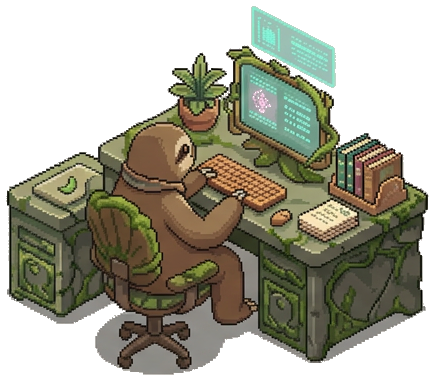
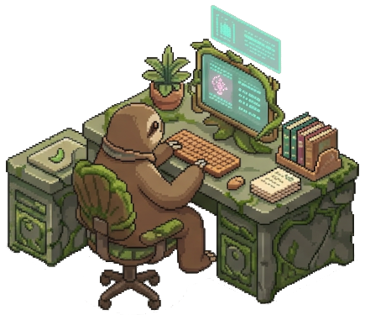
chore: sprite fixes

diff --git a/rendering/world-scene-asset-renderer.js b/rendering/world-scene-asset-renderer.js
@@ -663,40 +663,57 @@ export function renderConnectionLayer(ctx, components, entityPositions) {
 // ---------------------------------------------------------------------------
 
 /**
+ * Fixed desk positions calibrated to scene_background_01.jpg (canvas: 1060 × 520).
+ *
+ * One slot per confirmed, browser-verified sprite filename.
+ * Agents are assigned by index — first agent → slot 0, etc.
+ * Fewer agents than slots: only the filled slots are drawn.
+ * More agents than slots: remainder are silently skipped.
+ *
+ * sprite — explicit filename; looked up directly in loadedAssets, no inference.
+ * Adjust x/y here to re-align with the background image without touching any other code.
+ */
+const SLOTH_SLOTS = Object.freeze([
+  Object.freeze({ x: 350, y: 260, sprite: 'sloth_worker_desk_facing_right_front_01.png' }),
+  Object.freeze({ x: 700, y: 255, sprite: 'sloth_worker_desk_facing_left_front_01.png'  }),
+  Object.freeze({ x: 790, y: 310, sprite: 'sloth_worker_desk_facing_right_back_01.png'  }),
+  Object.freeze({ x: 570, y: 400, sprite: 'sloth_worker_desk_facing_left_back_01.png'   }),
+]);
+
+/**
  * Draw the sloth-at-desk sprite for each agent-sprite component.
  *
- * Uses ASSET_MAPPING.agents.base: sloth_worker_desk_facing_right_back_01.png (AGENT_W × AGENT_H).
- * The sprite is drawn centred on the resolved canvas position.
+ * Agents are assigned to SLOTH_SLOTS by index (first agent → slot 0).
+ * Position and sprite come entirely from the slot — entityPositions is not
+ * consulted here. No filename inference: slot.sprite is the literal key into
+ * loadedAssets.
+ *
  * Geometry circles from agent-entity-renderer (Layer 5 geometry pass) are
- * suppressed when the sprite is confirmed loaded — the circle acts as fallback
- * while assets are still loading.
+ * covered by the 62×54 sprite and act as a fallback while assets load.
  *
  * @param {CanvasRenderingContext2D} ctx
  * @param {Array<object>} components
- * @param {Map<string, {x:number, y:number}>} entityPositions
+ * @param {Map<string, {x:number, y:number}>} entityPositions  (unused — slots provide positions)
  */
 export function renderEntityLayer(ctx, components, entityPositions) {
-  const file = ASSET_MAPPING.agents.base;
-  let debugLogged = false;
+  void entityPositions; // Positions come from SLOTH_SLOTS; entity position map is not used here.
+  let agentIndex = 0;
+
   for (const c of components) {
     if (c.componentType !== 'agent-sprite') continue;
-    const { x, y } = posOf(c, entityPositions);
 
-    if (window.DEV_MODE && !debugLogged) {
-      console.log('[Layer 5] file:', file, '| loaded:', !!loadedAssets[file], '| pos:', x, y);
-      debugLogged = true;
-    }
+    // More agents than slots — silently skip the remainder.
+    if (agentIndex >= SLOTH_SLOTS.length) break;
 
-    // Desk underlay removed — desk furniture is baked into the scene background image.
-    // Drawing a per-agent desk sprite on top produced a floating rectangle beneath
-    // each sloth. Agents now sit directly on the background desks.
+    const slot = SLOTH_SLOTS[agentIndex++];
 
-    if (loadedAssets[file]) {
-      // Draw sprite directly — no clearRect. The geometry circle (radius 10) is fully
-      // covered by the 62×54 sprite and does not need to be erased first. clearRect was
-      // punching transparent holes through the composite background layers, which showed
-      // the body background colour as a grey strip at the agent cluster position.
-      ctx.drawImage(loadedAssets[file], x - AGENT_W / 2, y - AGENT_H / 2, AGENT_W, AGENT_H);
+    if (loadedAssets[slot.sprite]) {
+      ctx.drawImage(
+        loadedAssets[slot.sprite],
+        slot.x - AGENT_W / 2,
+        slot.y - AGENT_H / 2,
+        AGENT_W, AGENT_H,
+      );
     }
     // Sprite not yet loaded — geometry circle from agent-entity-renderer is the fallback.
   }
@@ -818,4 +835,3 @@ export function renderUIOverlayLayer(ctx, components, entityPositions) {
     ctx.restore();
   }
 }
-

diff --git a/rendering/assets.js b/rendering/assets.js
@@ -37,7 +37,6 @@ export const assetPaths = [
   // once a compositing strategy for image mode is decided.
   'assets/slothworldassets/sloth_worker_desk_facing_left_back_01.png',
   'assets/slothworldassets/sloth_worker_desk_facing_left_front_01.png',
-  'assets/slothworldassets/sloth_worker_desk_facing_left_front_02.png',
   // largeFront: tall individual sprite (875×1216 RGB, no alpha). Preloaded; not yet wired
   // into rendering — intended use (blend mode / crop / position) to be determined.
   'assets/slothworldassets/sloth_worker_desk_facing_right_front_01.png',
@@ -116,14 +115,15 @@ export const assetPaths = [
  */
 export const ASSET_MAPPING = Object.freeze({
   agents: Object.freeze({
-    // Cropped individual sprite (435×381 RGBA) — drawn centred on resolved desk position.
+    // Cropped individual sprite (435×381 RGBA) — fallback for entity layer.
     base: 'sloth_worker_desk_facing_right_back_01.png',
-    // Full-scene RGB layer sprites (1376×768, no alpha) — preloaded for future use.
-    // Not active in rendering: SCENE_COMPOSITE.slothSceneLayers = false.
-    sceneLayers: Object.freeze([
+    // All confirmed sloth variants. Order matches SLOTH_SLOTS in world-scene-asset-renderer.js.
+    // Do not add filenames here that have not been verified to exist on disk.
+    variants: Object.freeze([
+      'sloth_worker_desk_facing_right_back_01.png',
       'sloth_worker_desk_facing_left_back_01.png',
       'sloth_worker_desk_facing_left_front_01.png',
-      'sloth_worker_desk_facing_left_front_02.png',
+      'sloth_worker_desk_facing_right_front_01.png',
     ]),
     // Large front sprite (875×1216 RGB, no alpha) — preloaded; rendering use TBD.
     largeFront: 'sloth_worker_desk_facing_right_front_01.png',

diff --git a/rendering/world-scene-layer-renderer.js b/rendering/world-scene-layer-renderer.js
@@ -95,6 +95,7 @@ export function renderAllLayers(ctx, components, frame) {
   if (!bgLoaded) {
     renderAllAgentEntities(ctx, components, entityPositions);
   }
-  // renderEntityLayer, renderPropLayer, renderEffectLayer, renderUIOverlayLayer
-  // are all suppressed in image mode. renderEffectLayer is already a hard no-op.
+  renderEntityLayer(ctx, components, entityPositions);
+  // renderPropLayer, renderEffectLayer, renderUIOverlayLayer
+  // are still suppressed in image mode. renderEffectLayer is already a hard no-op.
 }
